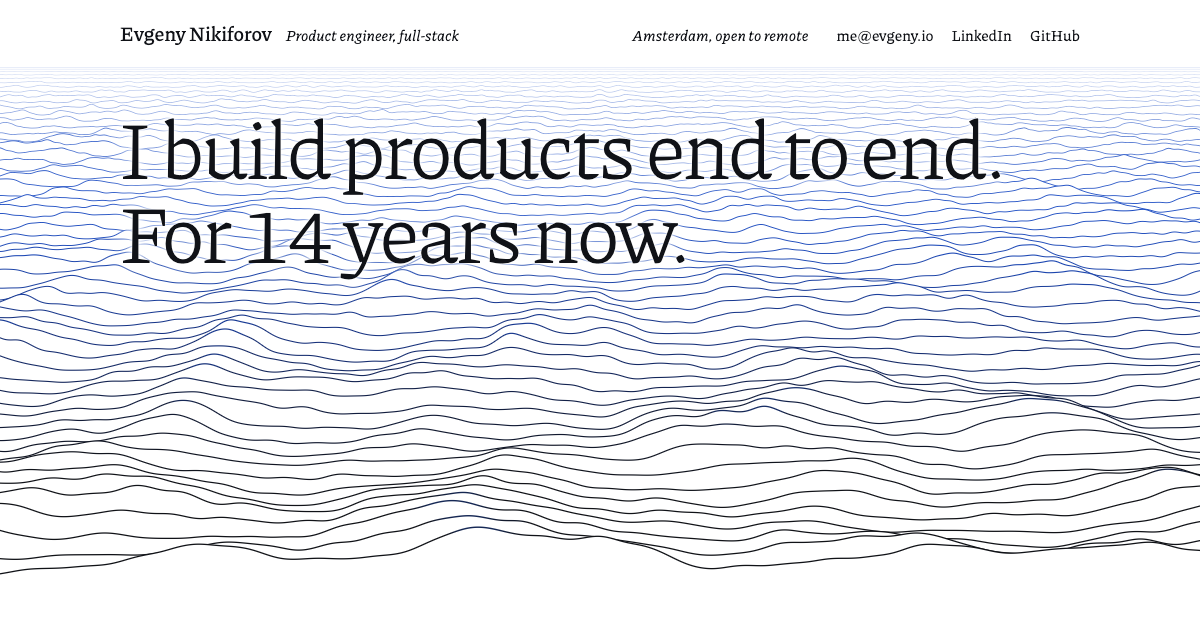
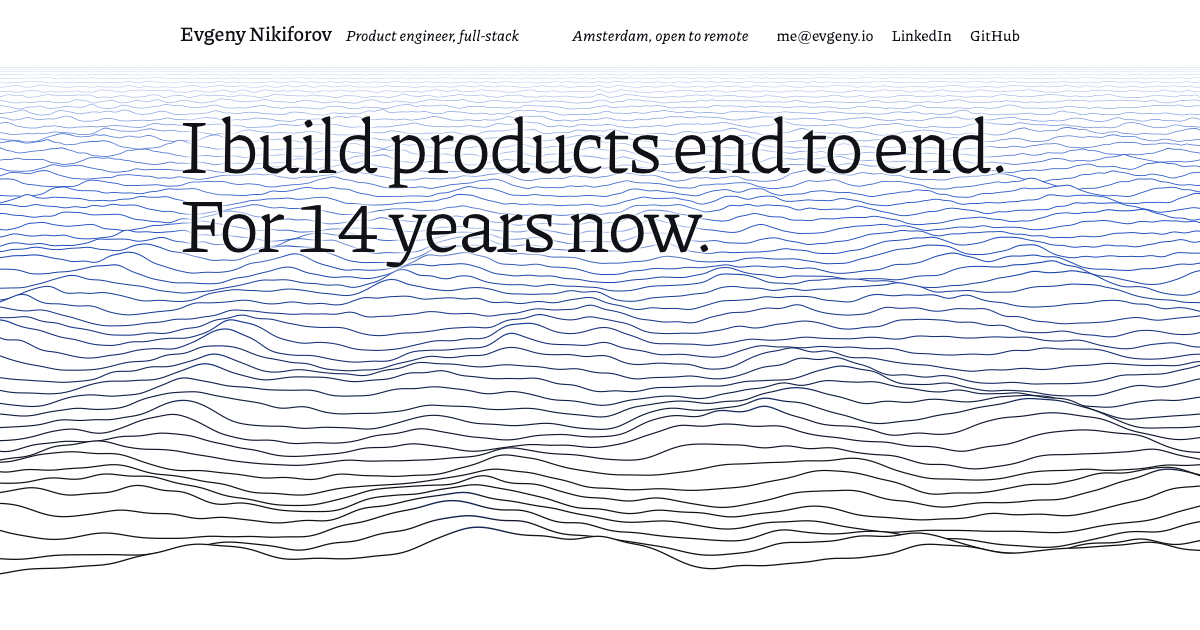
Next, reworded: no team size, no names
The job no longer puts a number on the team, and what I don't want says what
it is without pointing at Google and Yandex. og.png is taken again from the
page in its one-column layout.

Changed region(s): [[0.0925, 0.181, 0.8325, 0.4524], [0.4933, 0.0302, 0.8942, 0.0905], [0.0925, 0.0302, 0.4317, 0.0905]]

diff --git a/index.html b/index.html
@@ -124,11 +124,11 @@
     <h2 id="next-h">Next</h2>
     <dl>
       <dt>The job</dt>
-      <dd>Founding or senior product engineer, in a team of somewhere between 2 and 200 people, working on something ambitious. Remote, or on site in&nbsp;Amsterdam.</dd>
+      <dd>Founding or senior product engineer, working on something ambitious. Remote, or on site in&nbsp;Amsterdam.</dd>
       <dt>What you get</dt>
       <dd>Someone who takes a thing all the way through, cares how it turns out, and still ships it quickly. I get involved in the product, suggest ideas and then build&nbsp;them.</dd>
       <dt>What I don’t want</dt>
-      <dd>Owning one narrow service inside a big company. Been there, at Google and Yandex. Now I want to build a product and be part of&nbsp;it.</dd>
+      <dd>A job where I only ever see one small part of the product. I want to work on all of it and help decide where it&nbsp;goes.</dd>
     </dl>
   </section>
 
